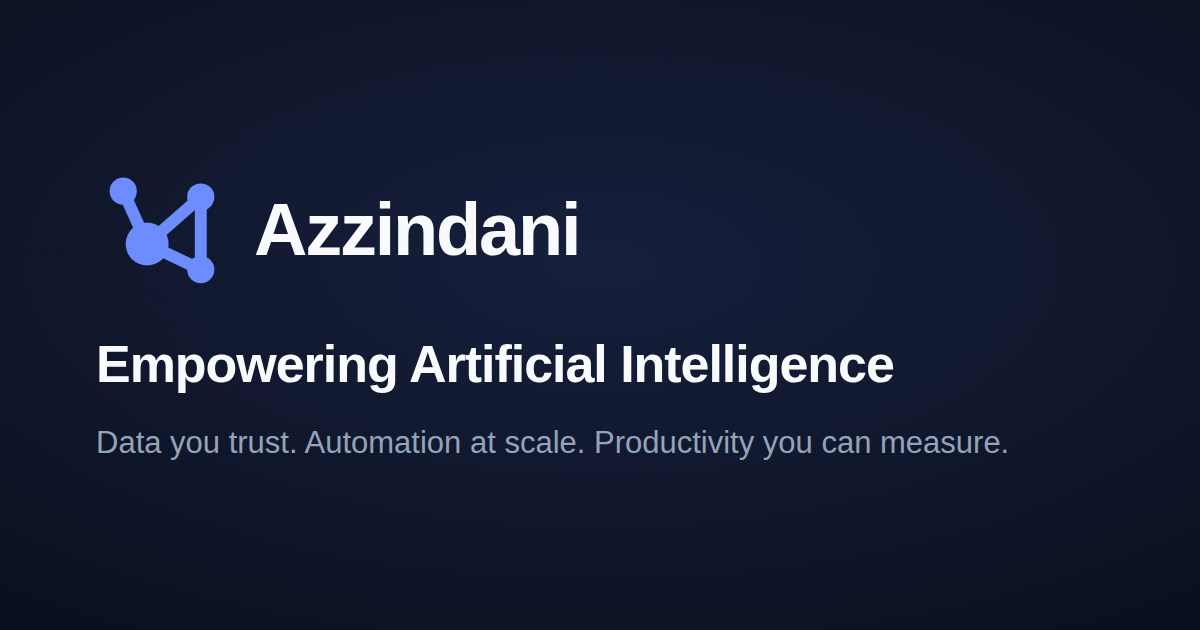
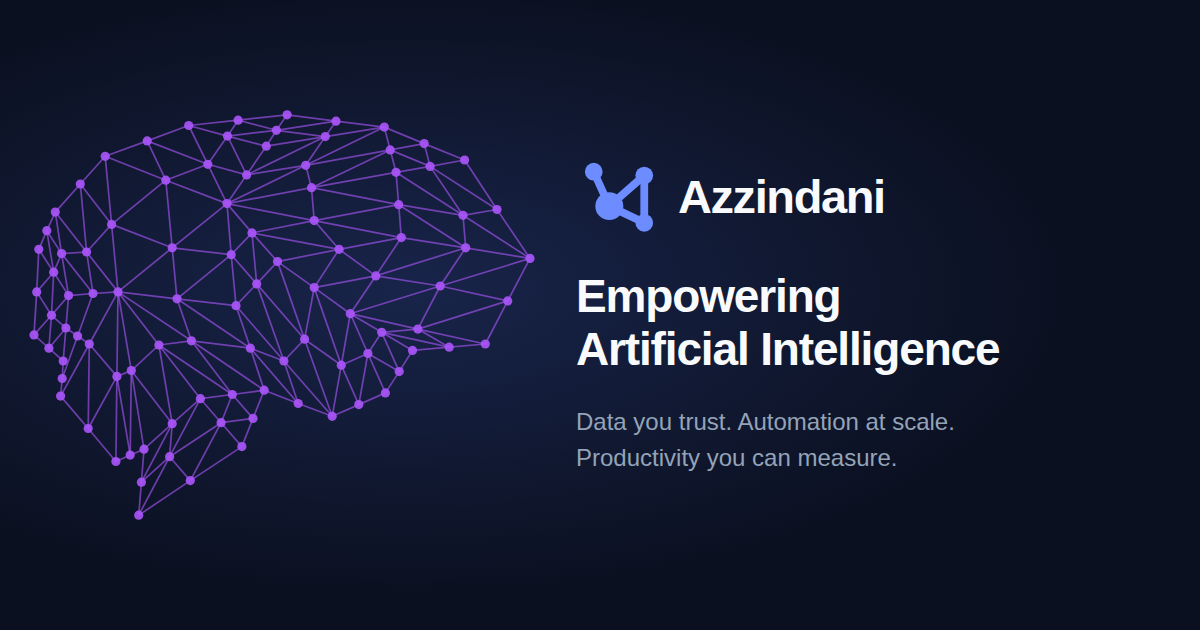
Draw the real brain graph on the share card
The first card was a wordmark on a gradient — correct but anonymous, and it
threw away the one image the site actually has. It now carries the stage-1
brain: the same node-and-edge figure, mirrored the same way so it faces the
copy on its right.

The coordinates are READ from js/neural-bg.js at generation time
(BRAIN_GRAPH_XY1 / BRAIN_GRAPH_E1, the 97-node level a desktop budget reaches)
rather than copied into the generator, so the card cannot drift from the figure
the page draws.

Nothing is clipped at the frame. The first attempt bled the frontal lobe off
the left edge, which reads as a mistake rather than a crop — and platforms crop
OG images further, so anything at an edge is at risk of losing more. The hero
also breaks over two lines now, matching the page's own hero rather than three.

Checked at 500px and 360px — the sizes a LinkedIn feed and a Slack unfurl
actually render. Brain, wordmark and headline all hold; only the sub-line goes
small at 360.

Claude-Session: https://claude.ai/code/session_015dFNU2DEdTyzidiM2KQQrn

Changed region(s): [[0.0, 0.181, 0.8325, 0.8143]]

diff --git a/tools/make-og-card.js b/tools/make-og-card.js
@@ -18,15 +18,18 @@
 'use strict';
 
 const { chromium } = require('playwright');
+const fs = require('fs');
+const path = require('path');
 
 // The dark theme's own values, so the card matches the site a click later.
 const BG = '#0b1020';
 const INK = '#f8fafc';
 const MUTED = '#94a3b8';
 const PRIMARY = '#6d8cff';
+const BIO = '#a855f7';   // COLOR_BIO in neural-bg.js — the brain is a bio figure
 
 const MARK = `
-<svg width="132" height="132" viewBox="0 0 32 32" style="color:${PRIMARY}">
+<svg width="86" height="86" viewBox="0 0 32 32" style="color:${PRIMARY}">
   <g fill="none" stroke="currentColor" stroke-width="2.9" stroke-linecap="round">
     <path d="M12.4 19.4 L6.6 6.6"/><path d="M12.4 19.4 L25.4 8"/>
     <path d="M12.4 19.4 L25.4 25.6"/><path d="M25.4 8 L25.4 25.6"/>
@@ -37,20 +40,64 @@ const MARK = `
   </g>
 </svg>`;
 
+// The brain is READ from js/neural-bg.js rather than copied here, so the card
+// cannot drift from the figure the page actually draws. Level 1 (97 nodes /
+// 244 edges) is what a desktop budget reaches on stage 1.
+function brainGraph() {
+    const src = fs.readFileSync(path.join(__dirname, '..', 'js', 'neural-bg.js'), 'utf8');
+    const grab = (name) => {
+        const i = src.indexOf('const ' + name);
+        if (i < 0) throw new Error(name + ' not found in js/neural-bg.js');
+        return src.slice(i, src.indexOf(';', i))
+            .replace(/^[^=]*=/, '').replace(/'/g, '').replace(/\+/g, '')
+            .trim().split(/\s+/).map(Number);
+    };
+    const f = grab('BRAIN_GRAPH_XY1'), nodes = [];
+    for (let i = 0; i + 1 < f.length; i += 2) nodes.push({ x: f[i], y: f[i + 1] });
+    const e = grab('BRAIN_GRAPH_E1'), edges = [];
+    for (let i = 0; i + 1 < e.length; i += 2) edges.push([e[i], e[i + 1]]);
+    return { nodes, edges };
+}
+
+// Laid out the way stage 1 lays it out: mirrored in x so the figure faces the
+// copy, which sits on its right. Cells on the nodes and wires between them —
+// no fill, no outline, because nothing in the mesh is stroked line work.
+function brainSVG(box) {
+    const { nodes, edges } = brainGraph();
+    const xs = nodes.map(n => n.x), ys = nodes.map(n => n.y);
+    const x0 = Math.min(...xs), x1 = Math.max(...xs);
+    const y0 = Math.min(...ys), y1 = Math.max(...ys);
+    const k = Math.min(box.w / (x1 - x0), box.h / (y1 - y0));
+    const w = (x1 - x0) * k, h = (y1 - y0) * k;
+    const ox = box.x + (box.w - w) / 2, oy = box.y + (box.h - h) / 2;
+    const P = nodes.map(n => [ox + w - (n.x - x0) * k, oy + (n.y - y0) * k]);
+    const wires = edges.map(([a, b]) =>
+        `<line x1="${P[a][0].toFixed(1)}" y1="${P[a][1].toFixed(1)}" ` +
+        `x2="${P[b][0].toFixed(1)}" y2="${P[b][1].toFixed(1)}"/>`).join('');
+    const cells = P.map(([x, y]) =>
+        `<circle cx="${x.toFixed(1)}" cy="${y.toFixed(1)}" r="4.6"/>`).join('');
+    return `<svg width="1200" height="630" style="position:absolute;inset:0">
+        <g stroke="${BIO}" stroke-width="1.7" stroke-opacity="0.62" fill="none">${wires}</g>
+        <g fill="${BIO}" fill-opacity="0.92">${cells}</g></svg>`;
+}
+
 const HTML = `<body style="margin:0">
-<div style="width:1200px;height:630px;box-sizing:border-box;background:${BG};
-     background-image:radial-gradient(ellipse 78% 68% at 50% 42%, #16203c 0%, ${BG} 100%);
-     display:flex;flex-direction:column;justify-content:center;padding:0 96px;
+<div style="position:relative;width:1200px;height:630px;overflow:hidden;background:${BG};
+     background-image:radial-gradient(ellipse 78% 68% at 34% 46%, #18244a 0%, ${BG} 72%);
      font-family:-apple-system,BlinkMacSystemFont,'Segoe UI',Helvetica,Arial,sans-serif;color:${INK}">
-  <div style="display:flex;align-items:center;gap:26px;margin-bottom:38px">
-    ${MARK}
-    <span style="font-size:74px;font-weight:800;letter-spacing:-0.03em">Azzindani</span>
-  </div>
-  <div style="font-size:52px;font-weight:700;line-height:1.18;letter-spacing:-0.02em;max-width:1000px">
-    Empowering Artificial Intelligence
-  </div>
-  <div style="font-size:31px;color:${MUTED};margin-top:26px;line-height:1.45;max-width:960px">
-    Data you trust. Automation at scale. Productivity you can measure.
+  ${brainSVG({ x: 34, y: 92, w: 496, h: 446 })}
+  <div style="position:absolute;left:576px;top:0;width:568px;height:630px;
+       display:flex;flex-direction:column;justify-content:center">
+    <div style="display:flex;align-items:center;gap:16px;margin-bottom:30px">
+      ${MARK}
+      <span style="font-size:47px;font-weight:800;letter-spacing:-0.03em">Azzindani</span>
+    </div>
+    <div style="font-size:46px;font-weight:700;line-height:1.16;letter-spacing:-0.025em">
+      Empowering<br>Artificial Intelligence
+    </div>
+    <div style="font-size:24px;color:${MUTED};margin-top:28px;line-height:1.5">
+      Data you trust. Automation at scale.<br>Productivity you can measure.
+    </div>
   </div>
 </div></body>`;
 

diff --git a/CLAUDE.md b/CLAUDE.md
@@ -65,10 +65,18 @@ Two details worth keeping:
   declares `twitter:card = summary_large_image` and shipped with no `og:image`,
   and only 10 of 91 posts carry a cover — so the site root and the other 81
   posts shared as a large EMPTY box, which is worse than declaring no card.
-  `og-card.png` (1200x630) is the default, generated by `tools/make-og-card.js`
-  from the same node-and-edge geometry as the favicon and the brand symbol.
+  `og-card.png` (1200x630) is the default, generated by `tools/make-og-card.js`.
   `Head.set` falls back to it rather than emitting `content=""`, and both URLs
   are absolute because crawlers do not resolve a relative `og:image` reliably.
+
+  **The card draws the real stage-1 brain, READ from `js/neural-bg.js` at
+  generation time** — `BRAIN_GRAPH_XY1` / `BRAIN_GRAPH_E1`, the 97-node level a
+  desktop budget reaches — rather than a copy of the coordinates, so the card
+  cannot drift from the figure the page draws. It is mirrored the way stage 1
+  mirrors it, so the brain faces the copy on its right. Nothing is clipped at
+  the edges on purpose: platforms crop OG images further, so a figure bled off
+  the frame loses more than intended. Checked at 500px and 360px, the sizes a
+  LinkedIn feed and a Slack unfurl actually render.
 - **The footer year is set at runtime**, from the `DOMContentLoaded` handler in
   `js/app.js` into `#footer-year`. A hard-coded year is wrong within twelve
   months and nobody notices; this one cannot go stale.
